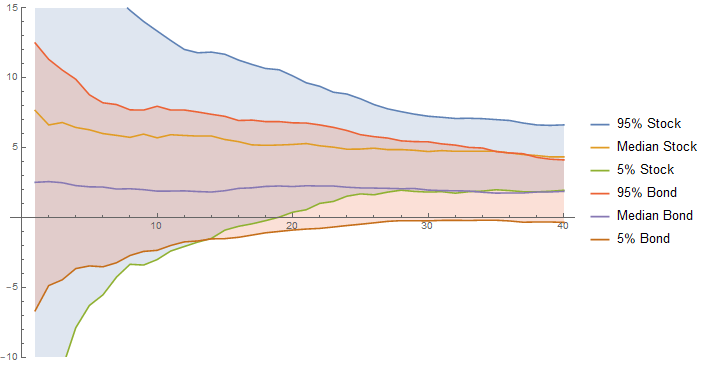
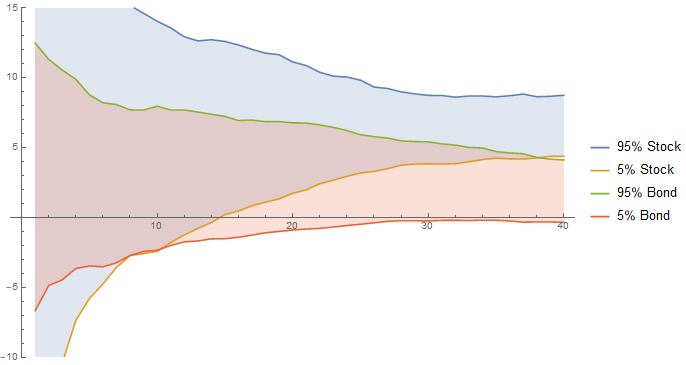
Fixed dividends calculations.

diff --git a/docs/blog/safest-bet/index.html b/docs/blog/safest-bet/index.html
@@ -306,8 +306,8 @@ periods). Let's see what this means for the probability of loss:</p>
 
 <p><figure style="text-align: center"><img src="/images/sp500-loss.png" alt="sp500 with dividends loss"></figure></p>
 
-<p>Holy-moly - the probability of loss is essentially 0 if we hold our portfolio
-for a little longer than 20 years.</p>
+<p>Holy-moly - the probability of loss is 0 if we hold our portfolio for longer
+than 20 years.</p>
 
 <p><strong>Think how remarkable this result is:</strong> we used stock history spanning
 two world wars, the Great Depression and the Great Recession. Even if you had to
@@ -329,12 +329,12 @@ plot below shows the distribution of yields for the stock and bond strategies:</
 
 <p><figure style="text-align: center"><img src="/images/yields.png" alt="yields"></figure></p>
 
-<p>If you look carefully enough, you can see that for holding periods of less than
-14 years the stock strategy is a lot more risky than the bond. However if your
-holding period exceeds 14 years the stock strategy is both, less risky and
-yielding better returns. Also notice that in long term, the width of the yield
-distribution for the stock strategy is about the same as for bonds, but overall
-it is shifted up by several percent.</p>
+<p>You can see that for holding periods of less than 9 years the stock strategy is
+a lot more risky than the bond. However if your holding period exceeds 9 years
+the stock strategy is both, less risky and yielding better returns. Also notice
+that in long term, the width of the yield distribution for the stock strategy is
+about the same as for bonds, but overall it is located above bond yield
+distribution.</p>
 
 <p>What does it all mean for regular folks that are trying to save for the
 retirement? Don't worry about whether the market is trending up or down, it's in
